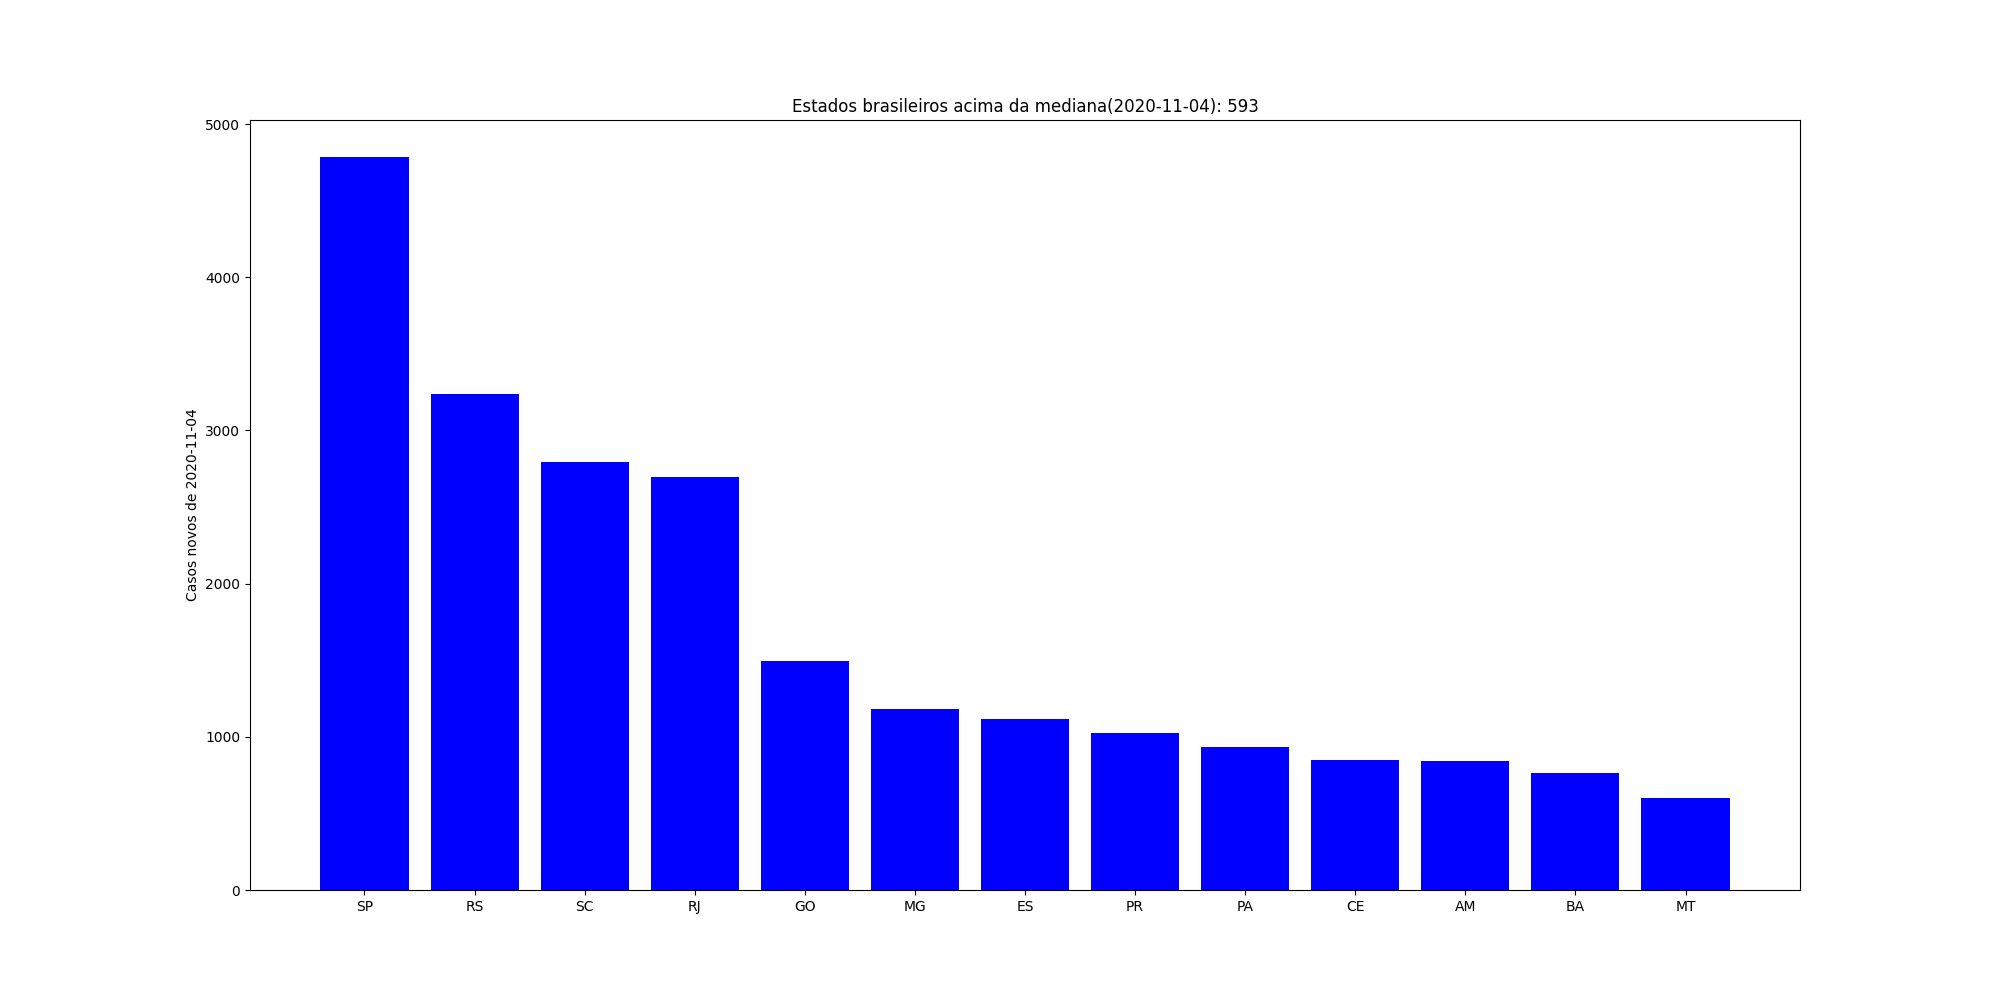
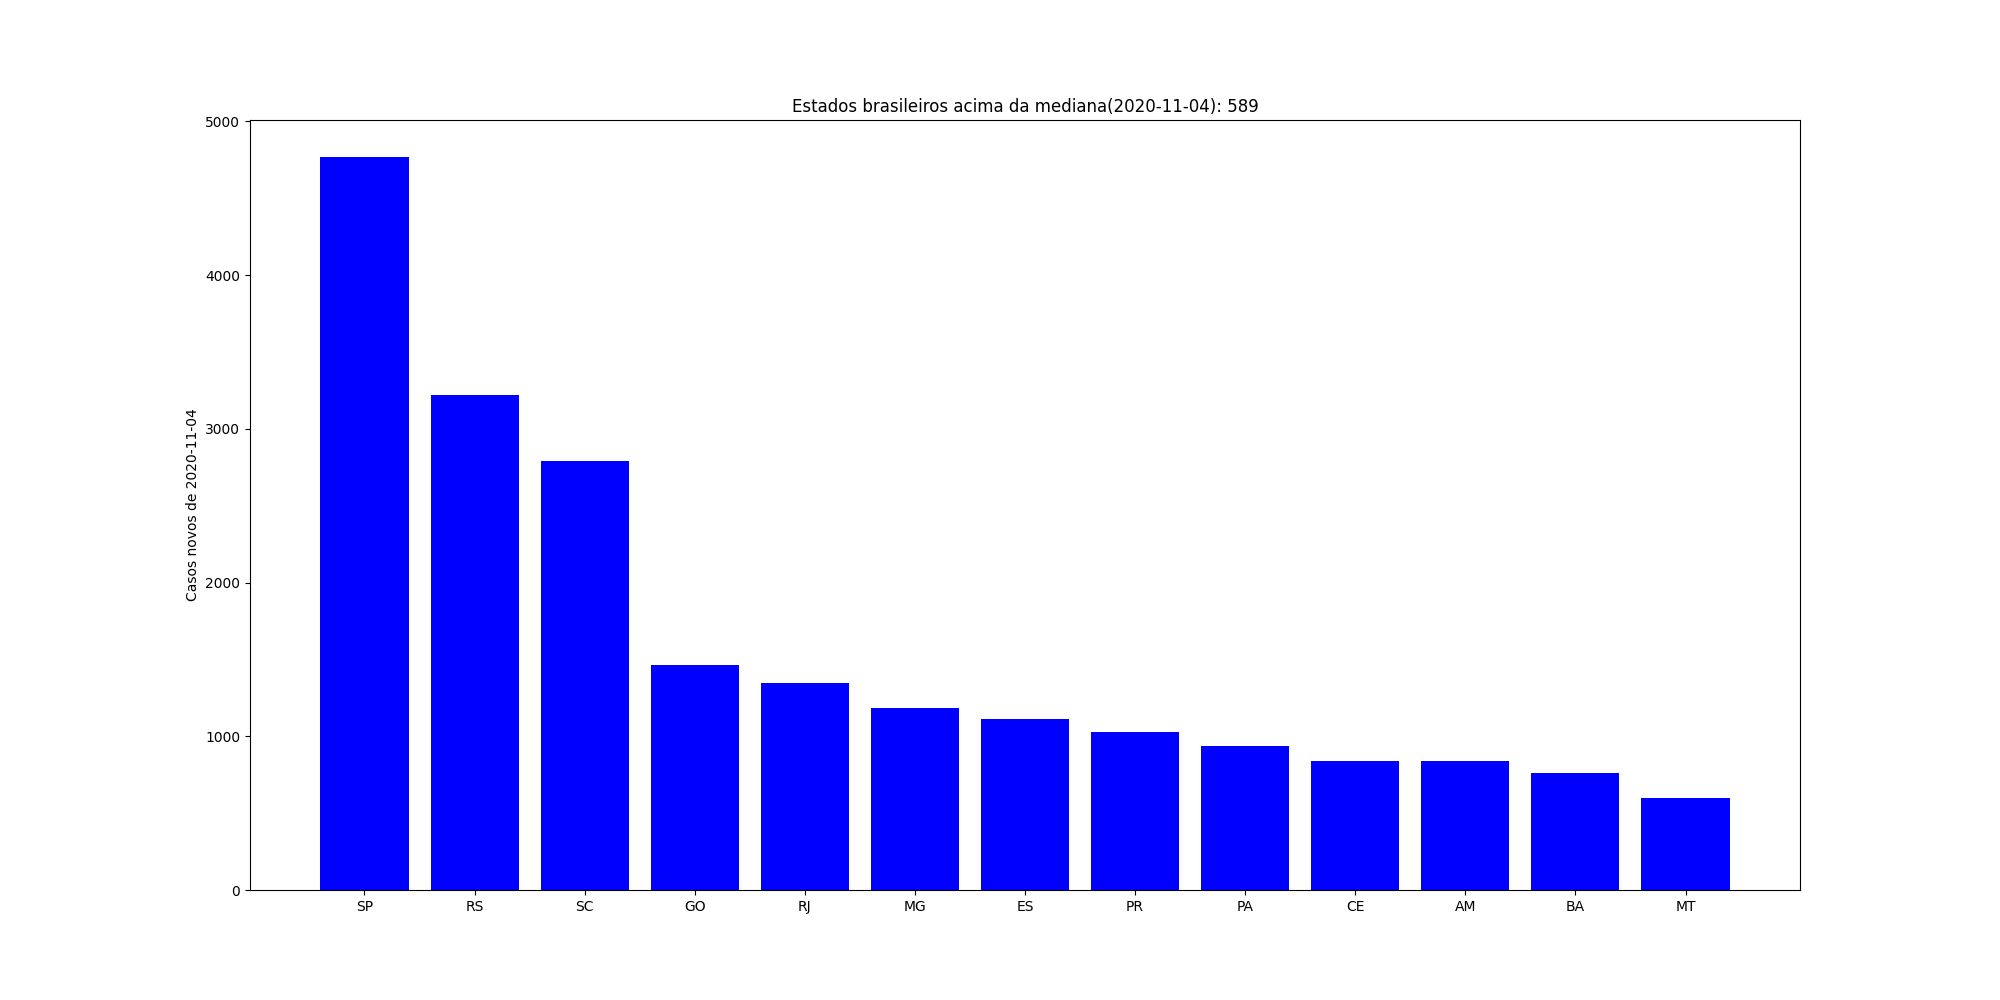
fix abs

Changed region(s): [[0.31, 0.465, 0.434, 0.682], [0.093, 0.403, 0.124, 0.434]]

diff --git a/DataExtraction/CSVFileReader.py b/DataExtraction/CSVFileReader.py
@@ -29,7 +29,8 @@ class CSVFileReader:
         for index, dados in aux_df.iterrows():
             for i in range(len(colunas)):
                 numero = dados[colunas[i]]
-                contadores[i] += abs(numero)
+                if numero > 0:
+                    contadores[i] += numero
         return contadores
 
     def retornar_dados_covid(self):
